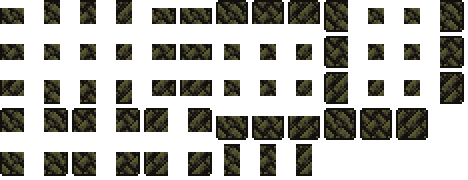
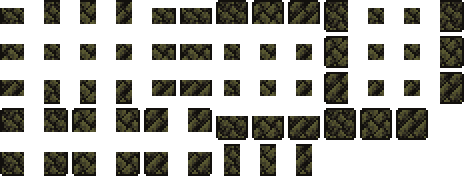
dungeon updates

diff --git a/Tiles/YellowBrick.cs b/Tiles/YellowBrick.cs
@@ -9,7 +9,7 @@ public class YellowBrick : ModTile
 {
     public override void SetStaticDefaults()
     {
-        AddMapEntry(new Color(79, 74, 51));//(82, 52, 156)); 94, 71, 117));
+        AddMapEntry(new Color(91, 84, 52));//(82, 52, 156)); 94, 71, 117));
         Main.tileSolid[Type] = true;
         Main.tileMergeDirt[Type] = true;
         Main.tileBrick[Type] = true;

diff --git a/Walls/YellowTiledWallUnsafe.cs b/Walls/YellowTiledWallUnsafe.cs
@@ -11,7 +11,7 @@ public class YellowTiledWallUnsafe : ModWall
     {
         Main.wallDungeon[Type] = true;
         RegisterItemDrop(ModContent.ItemType<Items.Placeable.Wall.YellowTiledWall>());
-        AddMapEntry(new Color(60, 59, 39));
+        AddMapEntry(new Color(55, 56, 36));
         DustType = ModContent.DustType<Dusts.YellowDungeonDust>();
     }
 }

diff --git a/Walls/OrangeTiledUnsafe.cs b/Walls/OrangeTiledUnsafe.cs
@@ -11,7 +11,7 @@ public class OrangeTiledUnsafe : ModWall
     {
         Main.wallDungeon[Type] = true;
         RegisterItemDrop(ModContent.ItemType<Items.Placeable.Wall.OrangeTiledWall>());
-        AddMapEntry(new Color(63, 36, 24));
+        AddMapEntry(new Color(89, 48, 23));
         DustType = ModContent.DustType<Dusts.OrangeDungeonDust>();
     }
 }

diff --git a/Walls/OrangeSlabUnsafe.cs b/Walls/OrangeSlabUnsafe.cs
@@ -11,7 +11,7 @@ public class OrangeSlabUnsafe : ModWall
     {
         Main.wallDungeon[Type] = true;
         RegisterItemDrop(ModContent.ItemType<Items.Placeable.Wall.OrangeSlabWall>());
-        AddMapEntry(new Color(63, 36, 24));
+        AddMapEntry(new Color(79, 38, 33));
         DustType = ModContent.DustType<Dusts.OrangeDungeonDust>();
     }
 }

diff --git a/Walls/OrangeTiledWall.cs b/Walls/OrangeTiledWall.cs
@@ -11,7 +11,7 @@ public class OrangeTiledWall : ModWall
     {
         Main.wallHouse[Type] = true;
         //ItemDrop = ModContent.ItemType<Items.Placeable.Wall.OrangeTiledWall>();
-        AddMapEntry(new Color(63, 36, 24));
+        AddMapEntry(new Color(89, 48, 23));
         DustType = ModContent.DustType<Dusts.OrangeDungeonDust>();
     }
 }

diff --git a/Walls/YellowTiledWall.cs b/Walls/YellowTiledWall.cs
@@ -11,7 +11,7 @@ public class YellowTiledWall : ModWall
     {
         Main.wallHouse[Type] = true;
         //ItemDrop = ModContent.ItemType<Items.Placeable.Wall.YellowTiledWall>();
-        AddMapEntry(new Color(60, 59, 39));
+        AddMapEntry(new Color(55, 56, 36));
         DustType = ModContent.DustType<Dusts.YellowDungeonDust>();
     }
 }

diff --git a/Walls/OrangeSlabWall.cs b/Walls/OrangeSlabWall.cs
@@ -11,7 +11,7 @@ public class OrangeSlabWall : ModWall
     {
         Main.wallHouse[Type] = true;
         //ItemDrop = ModContent.ItemType<Items.Placeable.Wall.OrangeSlabWall>();
-        AddMapEntry(new Color(63, 36, 24));
+        AddMapEntry(new Color(79, 38, 33));
         DustType = ModContent.DustType<Dusts.OrangeDungeonDust>();
     }
 }
